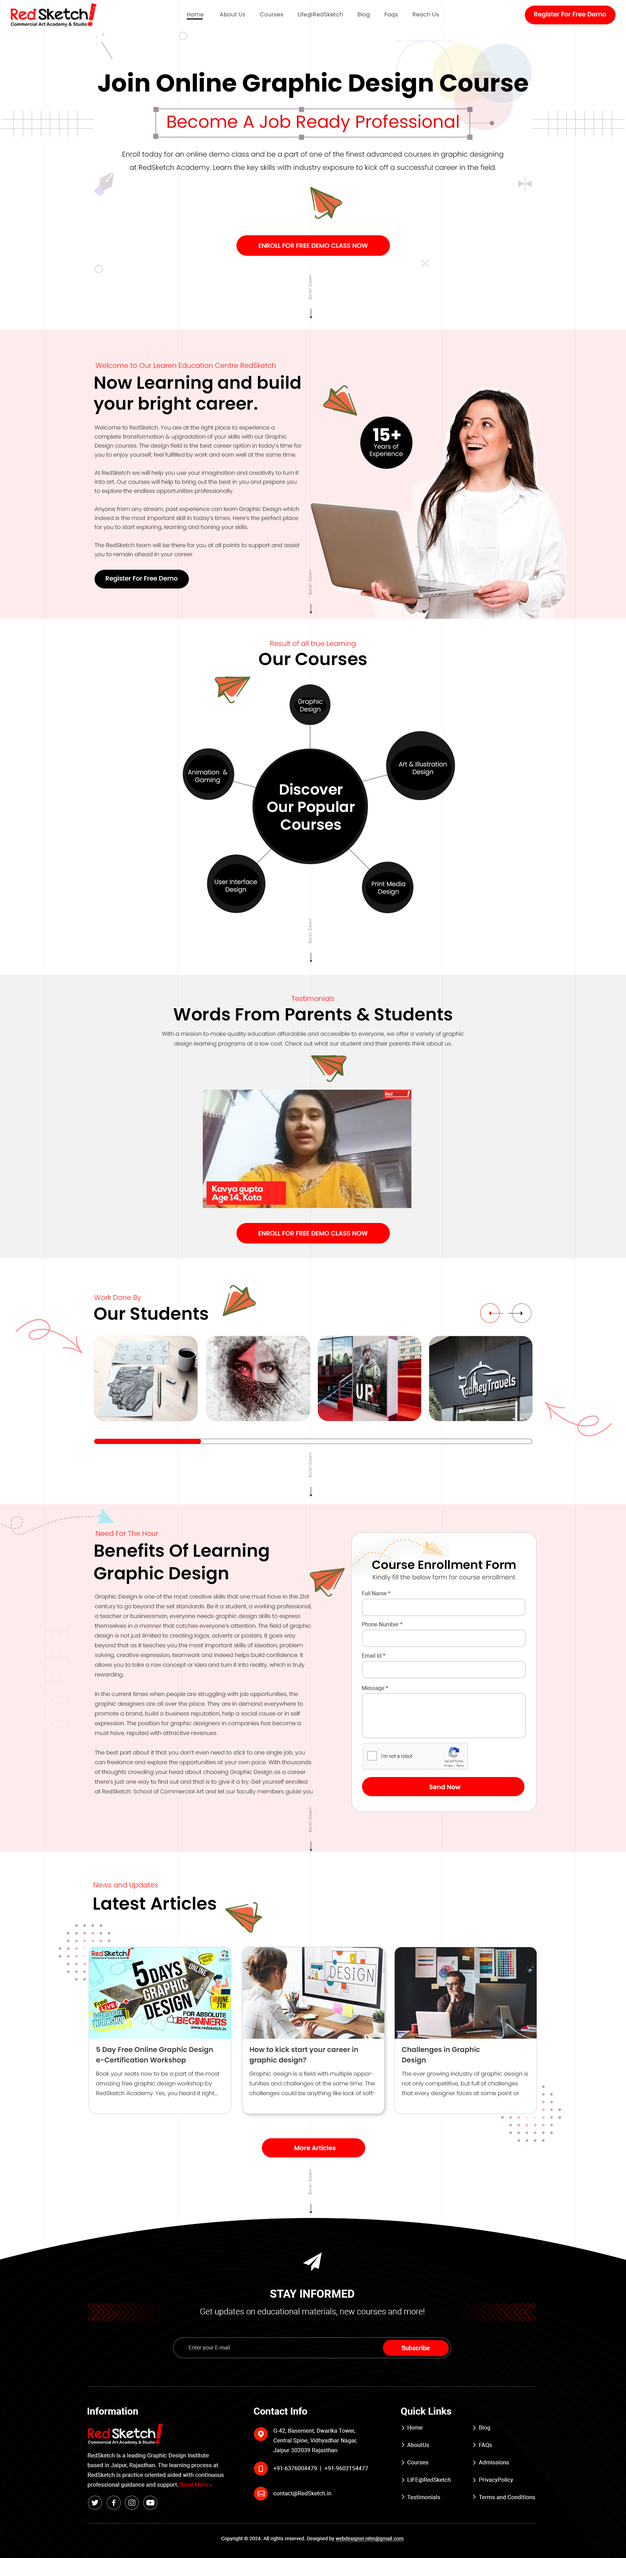
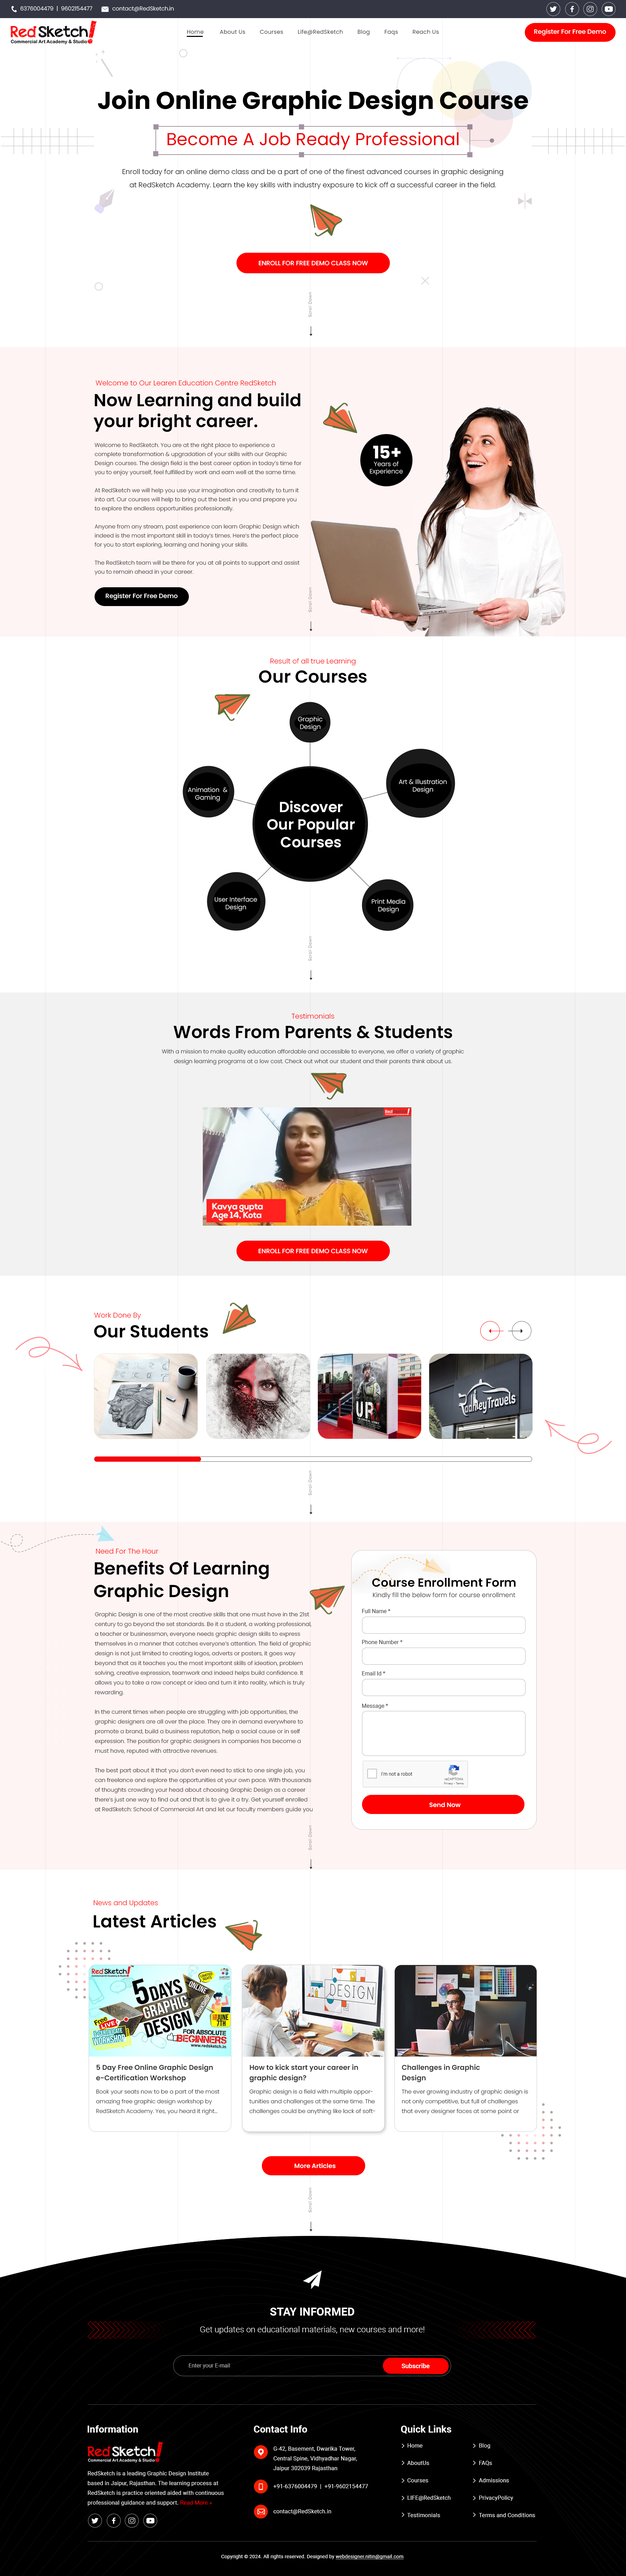
add new top section

diff --git a/index.html b/index.html
@@ -25,7 +25,7 @@
   
   body{
     background: url(img/home_page_2.jpg) no-repeat top center;
-    height: 7350px;
+    height: 7400px;
     width: 100%;
     margin: 0;
     padding: 0;
